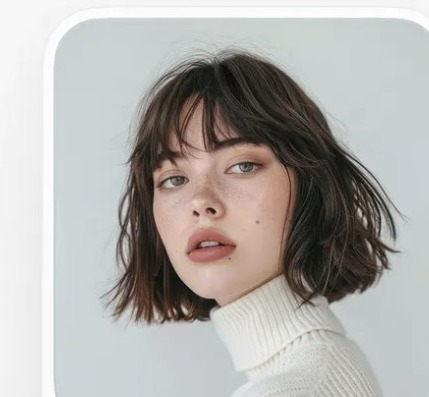
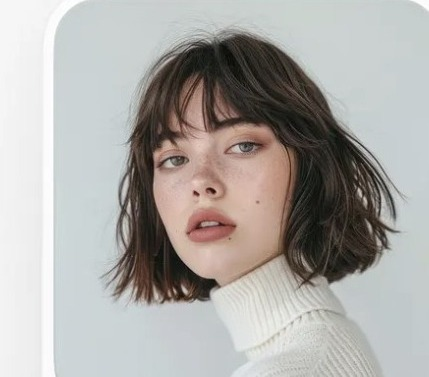
Fix ProfileCard top border (NestedRadius + photo crop)

diff --git a/index.html b/index.html
@@ -1000,18 +1000,15 @@
       background: #d8d4ce;
     }
 
-    /* Inset: photo recessed inside the 24px card (not flush — flush + same radius
-       made the top corners read square / double-border against the 40px stage). */
-    .profile-card--inset {
-      padding: 12px 12px 14px;
-    }
-
+    /* Inset: stacked photo + body. Photo is flush in the 24px card and clipped by
+       overflow:hidden so corners nest cleanly in the 40px stage (same as FlightCard).
+       No extra card padding — that doubled the top white gutter and fought NestedRadius. */
     .profile-card--inset .profile-card__photo {
-      border-radius: 12px; /* nest inside card pad: ~24 − 12 */
+      border-radius: 0;
     }
 
     .profile-card--inset .profile-card__body {
-      padding: 0.85rem 0.15rem 0.1rem;
+      padding: 1rem 1rem 1.05rem;
     }
 
     .profile-card__name {

diff --git a/ui-combo.html b/ui-combo.html
@@ -1000,18 +1000,15 @@
       background: #d8d4ce;
     }
 
-    /* Inset: photo recessed inside the 24px card (not flush — flush + same radius
-       made the top corners read square / double-border against the 40px stage). */
-    .profile-card--inset {
-      padding: 12px 12px 14px;
-    }
-
+    /* Inset: stacked photo + body. Photo is flush in the 24px card and clipped by
+       overflow:hidden so corners nest cleanly in the 40px stage (same as FlightCard).
+       No extra card padding — that doubled the top white gutter and fought NestedRadius. */
     .profile-card--inset .profile-card__photo {
-      border-radius: 12px; /* nest inside card pad: ~24 − 12 */
+      border-radius: 0;
     }
 
     .profile-card--inset .profile-card__body {
-      padding: 0.85rem 0.15rem 0.1rem;
+      padding: 1rem 1rem 1.05rem;
     }
 
     .profile-card__name {
